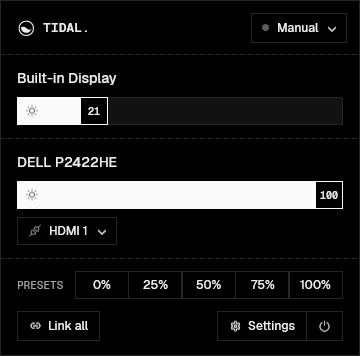
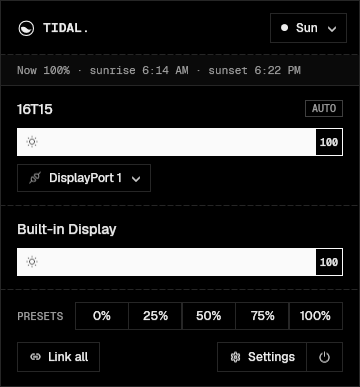
Refresh the website's screenshots and add the Apps tab
New captures of the popup and Settings (external monitor, adaptive brightness following the sun, app presets, shortcuts); the five viewer tabs share the bar on phones.

diff --git a/website/components/screen-tabs.tsx b/website/components/screen-tabs.tsx
@@ -5,6 +5,7 @@ import { useRef, useState } from "react";
 import popup from "@/public/screens/popup.png";
 import display from "@/public/screens/display.png";
 import adaptive from "@/public/screens/adaptive.png";
+import apps from "@/public/screens/apps.png";
 import shortcuts from "@/public/screens/shortcuts.png";
 
 type Screen = { id: string; label: string; image: StaticImageData; alt: string; caption: string; compact?: boolean };
@@ -15,22 +16,29 @@ const screens: Screen[] = [
     label: "tray",
     image: popup,
     compact: true,
-    alt: "Tidal's tray popup: a brightness slider for each display, an input switcher, presets and Link all",
+    alt: "Tidal's tray popup following the sun: a brightness slider for each display, the monitor's input, presets and Link all",
     caption: "Click the tray icon: a slider per display, the monitor's input, presets and Link all.",
   },
   {
     id: "display",
     label: "display",
     image: display,
-    alt: "Tidal Settings for the laptop screen: lowest, current and highest brightness around a drawing of the laptop",
-    caption: "One page per display: lowest, current and highest brightness, plus contrast and input where the monitor has them.",
+    alt: "Tidal Settings for an external monitor: lowest, current and highest brightness, contrast and input around a drawing of the monitor",
+    caption: "One page per display: its brightness range, contrast, input, adaptive brightness and dimming below 0.",
   },
   {
     id: "adaptive",
     label: "adaptive",
     image: adaptive,
-    alt: "Tidal's adaptive brightness page with four modes: manual, follow the sun, match the laptop and light sensor",
+    alt: "Tidal's adaptive brightness page following the sun, with today's brightness curve from sunrise to sunset",
     caption: "Choose what brightness follows: you, the sun, the laptop screen or a light sensor.",
+  },
+  {
+    id: "apps",
+    label: "apps",
+    image: apps,
+    alt: "Tidal's app presets: Google Chrome, Slack and Telegram, each with its own brightness",
+    caption: "Give apps their own brightness: the screen showing one switches while it's in front.",
   },
   {
     id: "shortcuts",

diff --git a/website/app/globals.css b/website/app/globals.css
@@ -988,6 +988,21 @@ kbd {
     display: none;
   }
 
+  /* All five tabs across a phone: share the bar, with less padding and tracking. */
+  .viewer-tabs {
+    flex: 1;
+  }
+
+  .viewer-tab {
+    flex: 1 1 auto;
+    padding: 11px 6px;
+    letter-spacing: 0.02em;
+  }
+
+  .viewer-tab:last-child {
+    border-right: 0;
+  }
+
   .shot-compact {
     width: 74%;
   }
